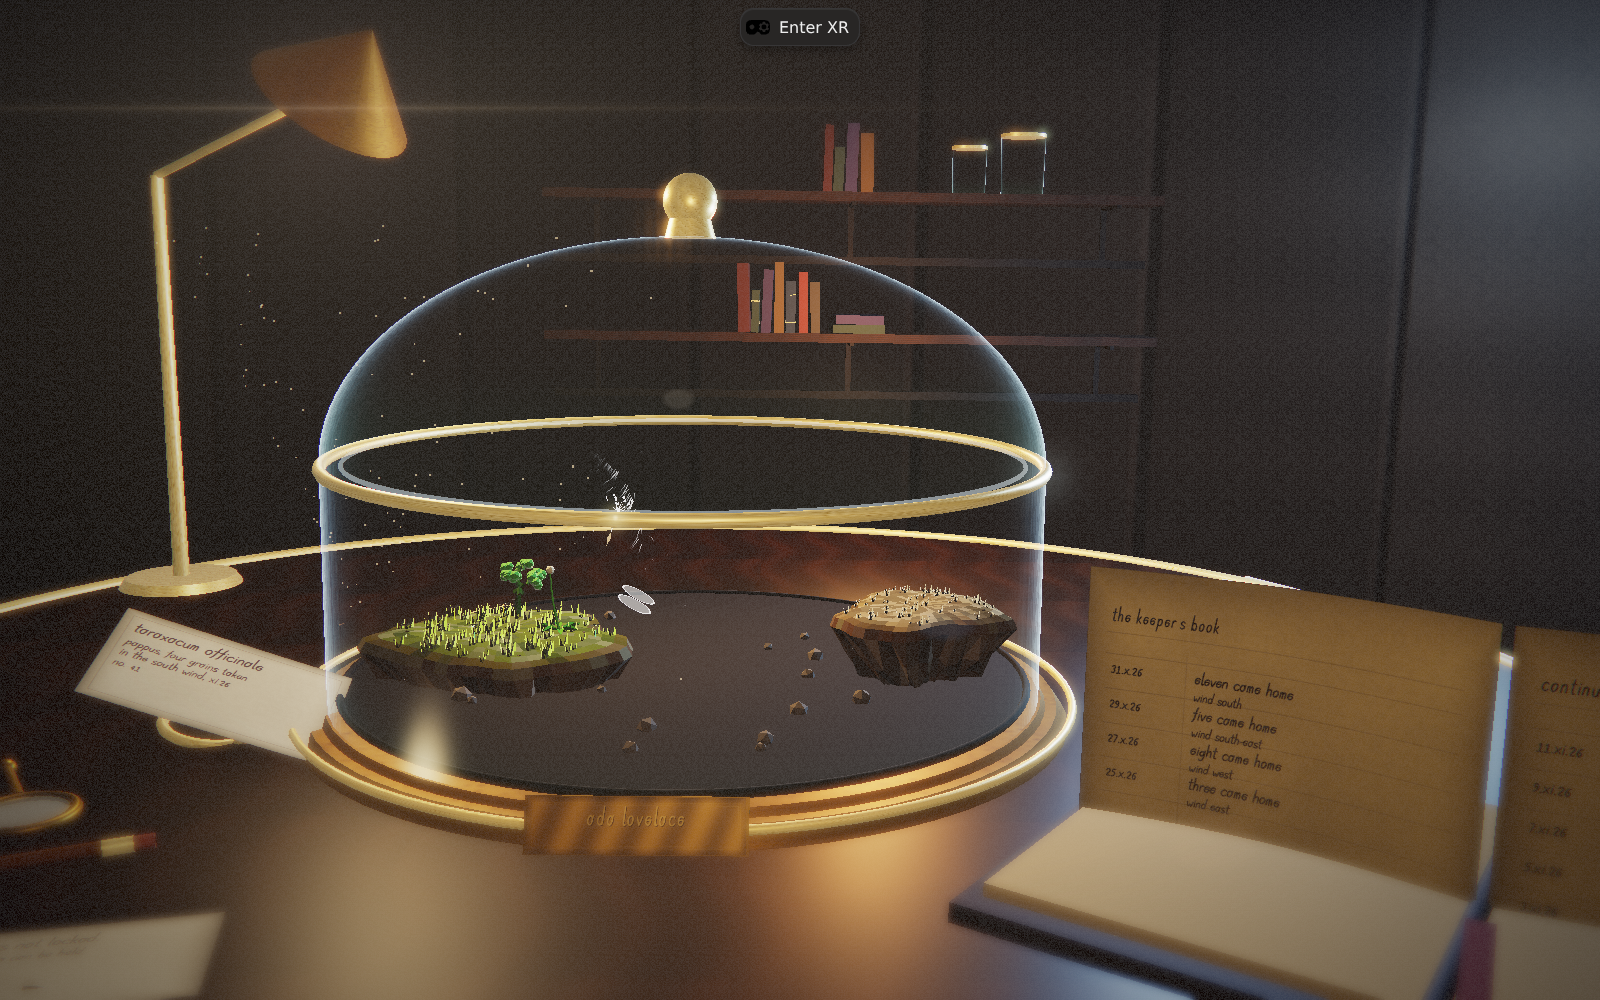
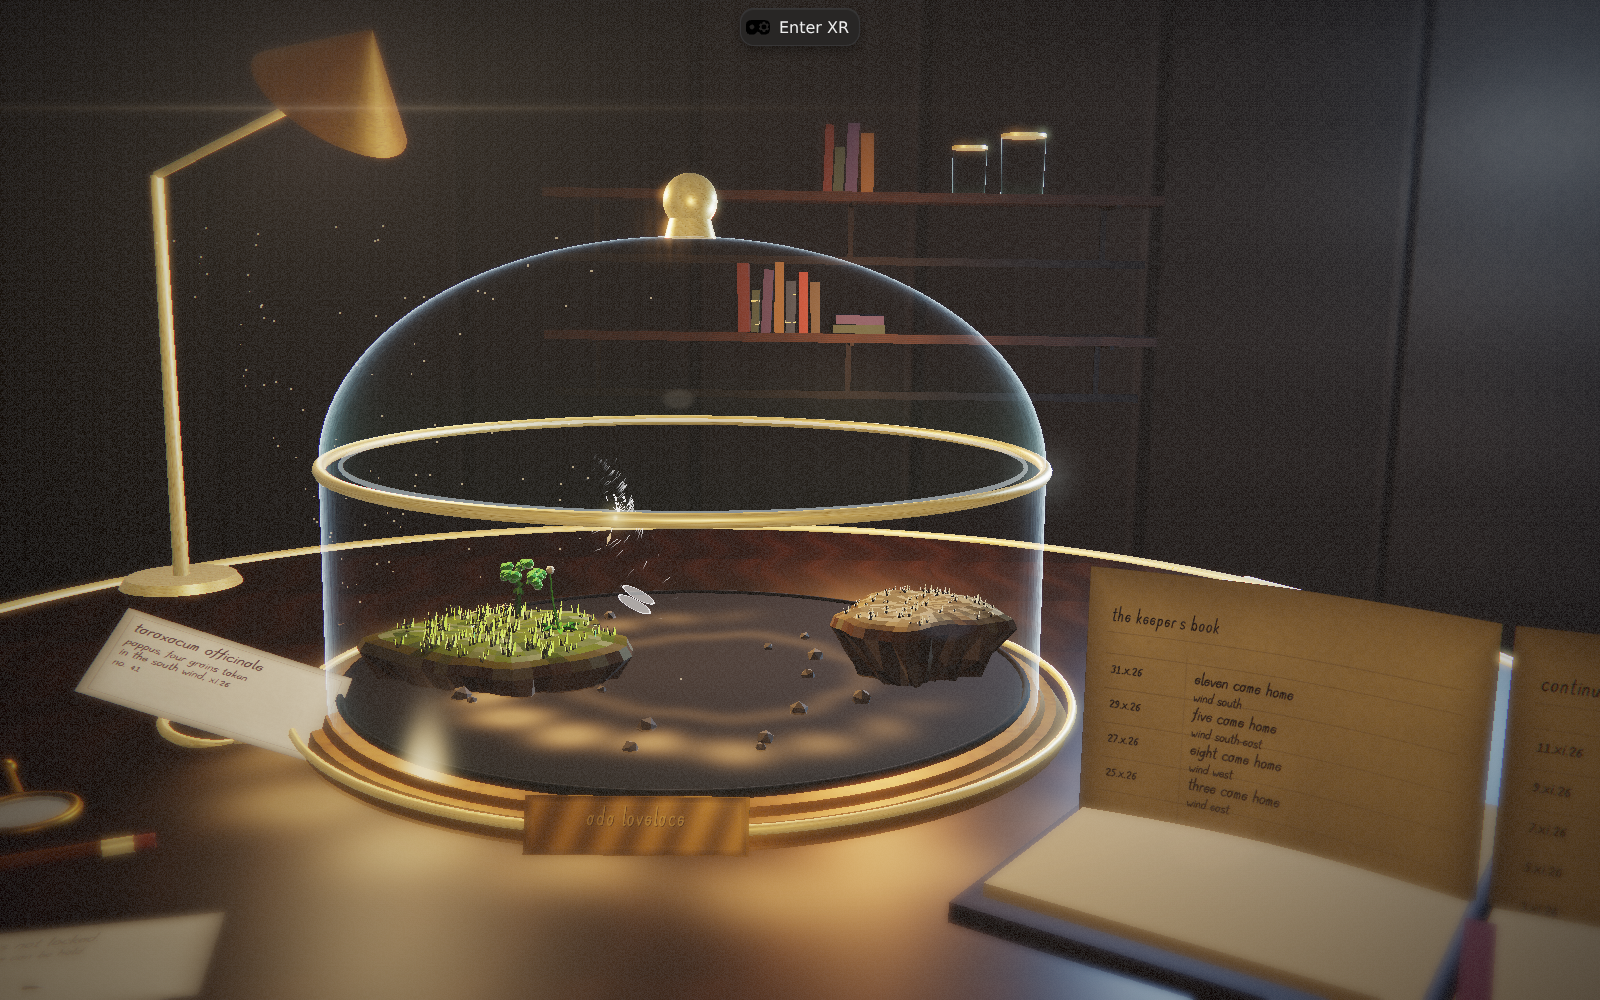
the jar throws its light
A caustic: light bent through the curved wall, concentrated into a broken ring
on whatever the glass is standing on. Painted once into a 512px canvas — a
wobbling gaussian ring, scalloped at nineteen spokes, weighted toward the lamp —
and laid flat twice, once on the varnish outside the brass and once on the
velvet inside the case, where it is now the brightest thing in the specimen.

It gutters with the lamp, because it is the lamp. The first pass came out as a
string of beads: a caustic is a line, not sequins.

Verified: 156/156 tests, tsc clean, build clean.

diff --git a/src/render/room.ts b/src/render/room.ts
@@ -186,6 +186,59 @@ function brass(): DataTexture {
   return grainTex;
 }
 
+/**
+ * THE CAUSTIC
+ *
+ * The one optical signature of glass nobody fakes by accident. Light entering a
+ * curved wall is bent, and where the wall is thick — at the foot of a jar — it
+ * comes out concentrated into a bright, broken ring that lands on whatever the
+ * jar is standing on. It is never a clean circle: the light catches the moulding
+ * marks in the glass, so the ring is scalloped, uneven, and brighter on the side
+ * the lamp is on.
+ */
+let causticTex: CanvasTexture | null = null;
+function caustic(): CanvasTexture {
+  if (causticTex) return causticTex;
+  const n = 512;
+  const canvas = document.createElement('canvas');
+  canvas.width = canvas.height = n;
+  const g = canvas.getContext('2d')!;
+  const img = g.createImageData(n, n);
+  const c = n / 2;
+  const seedA = 1.7;
+  const seedB = 4.1;
+  for (let y = 0; y < n; y++) {
+    for (let x = 0; x < n; x++) {
+      const dx = (x - c) / c;
+      const dy = (y - c) / c;
+      const r = Math.sqrt(dx * dx + dy * dy);
+      const th = Math.atan2(dy, dx);
+      // the ring itself, wobbling in and out with angle
+      const wobble = 1 + 0.035 * Math.sin(5 * th + seedA) + 0.022 * Math.sin(11 * th + seedB);
+      const rr = r / wobble;
+      // a caustic is a *line*, not a string of beads: wide enough that the
+      // scallops join up, or it reads as sequins dropped on the desk
+      const ring = Math.exp(-Math.pow((rr - 0.74) / 0.10, 2));
+      // scallops: the moulding marks in the glass, cast as spokes
+      const spoke = 0.74 + 0.26 * Math.sin(19 * th + seedA * 3);
+      // brighter on the lamp side, and it fades before the edge
+      const side = 0.55 + 0.75 * Math.cos(th - 2.6);
+      const fall = Math.max(0, 1 - Math.pow(rr / 1.05, 6));
+      // a thin second ring, the light that went twice round the foot
+      const inner = Math.exp(-Math.pow((rr - 0.46) / 0.06, 2)) * 0.20;
+      const v = Math.max(0, Math.min(1, (ring * spoke * side + inner) * fall));
+      const i = (y * n + x) * 4;
+      img.data[i] = 255;
+      img.data[i + 1] = 210;
+      img.data[i + 2] = 150;
+      img.data[i + 3] = v * 255;
+    }
+  }
+  g.putImageData(img, 0, 0);
+  causticTex = new CanvasTexture(canvas);
+  return causticTex;
+}
+
 /** A dried coffee ring: dark at the lip, almost clear in the middle. */
 let stainTex: CanvasTexture | null = null;
 function ringStain(): CanvasTexture {
@@ -248,6 +301,9 @@ export class Room {
   private bulbMesh!: Mesh;
   private readonly shade: Mesh;
   private readonly glow: Sprite;
+  /** The two caustics: the ring on the desk, and the one on the velvet. */
+  private readonly causticDesk: Mesh;
+  private readonly causticBed: Mesh;
   private readonly dust: Points;
   private readonly dustPos: Float32Array;
   private readonly dustSeeds: Float32Array;
@@ -374,6 +430,31 @@ export class Room {
     const knob = new Mesh(new SphereGeometry(0.038, 20, 14), metal);
     knob.position.y = neck.position.y + 0.036;
     this.inner.add(knob);
+
+    // the ring the glass throws: on the varnish, and again on the velvet
+    const causticMat = new MeshBasicMaterial({
+      map: caustic(),
+      color: 0xffd9a8,
+      transparent: true,
+      depthWrite: false,
+      blending: AdditiveBlending,
+    });
+    this.causticDesk = new Mesh(new CircleGeometry(CASE_R + 0.31, 72), causticMat);
+    this.causticDesk.rotation.x = -Math.PI / 2;
+    // the ring is not concentric with the jar: it lands where the light bends
+    // to, which is away from the lamp
+    this.causticDesk.position.set(0.055, TABLE_Y + 0.0032, 0.03);
+    this.causticDesk.renderOrder = 2;
+    this.inner.add(this.causticDesk);
+
+    this.causticBed = new Mesh(
+      new CircleGeometry(CASE_R - 0.055, 64),
+      causticMat.clone(),
+    );
+    this.causticBed.rotation.x = -Math.PI / 2;
+    this.causticBed.position.set(0.045, TABLE_Y + 0.0464, 0.02);
+    this.causticBed.renderOrder = 3;
+    this.inner.add(this.causticBed);
 
     const jarFoot = new Mesh(new TorusGeometry(CASE_R, 0.0085, 8, 80), darkBrass);
     jarFoot.rotation.x = Math.PI / 2;
@@ -870,6 +951,12 @@ export class Room {
     this.bulb.color.copy(c);
     this.bulb.intensity = 0.75 * flicker;
     (this.glow.material as SpriteMaterial).color.copy(c);
+    // the caustic is the lamp, bent: it gutters when the lamp gutters
+    const ck = (0.42 + 0.30 * sky.golden + 0.12 * sky.dawn) * flicker;
+    (this.causticDesk.material as MeshBasicMaterial).opacity = ck * 0.5;
+    (this.causticDesk.material as MeshBasicMaterial).color.copy(c);
+    (this.causticBed.material as MeshBasicMaterial).opacity = ck * 0.62;
+    (this.causticBed.material as MeshBasicMaterial).color.copy(c);
 
     // dust drifts on its own time, and only exists where the light is
     const p = this.dustPos;

diff --git a/docs/CABINET_DIRECTION.md b/docs/CABINET_DIRECTION.md
@@ -240,9 +240,20 @@ you see things twice.** The brass collar is drawn again as a pale, inset ghost
 inside the real one, and the foot gets the same treatment fainter. Two additive
 torus draws. It is the difference between a jar and a hoop with a shine on it.
 
-*(The real thing — a refraction pass, or the caustic the jar should be throwing
-onto the desk — is still not here. Neither is worth a full extra scene draw on a
-Quest without measuring the budget first.)*
+**And the jar throws its light.** A caustic is the one optical signature of
+glass that nobody fakes by accident: light bent through a curved wall comes out
+concentrated into a bright, broken ring, and lands on whatever the jar is
+standing on. It is never a clean circle — it catches the moulding marks in the
+glass, so it is scalloped, uneven, and brighter on the side the lamp is on.
+
+It is painted once into a 512px canvas (a wobbling gaussian ring, scalloped at
+nineteen spokes, weighted toward the lamp) and laid flat twice: on the varnish
+just outside the brass, and on the velvet inside the case, where it is the
+brightest thing in the specimen and finally gives the islands something to cast
+into. It gutters with the lamp, because it *is* the lamp.
+
+The first version was a string of beads — a narrow gaussian times a deep sine
+gives you sequins dropped on the desk. A caustic is a line.
 
 ## What pass three still does not have
 
